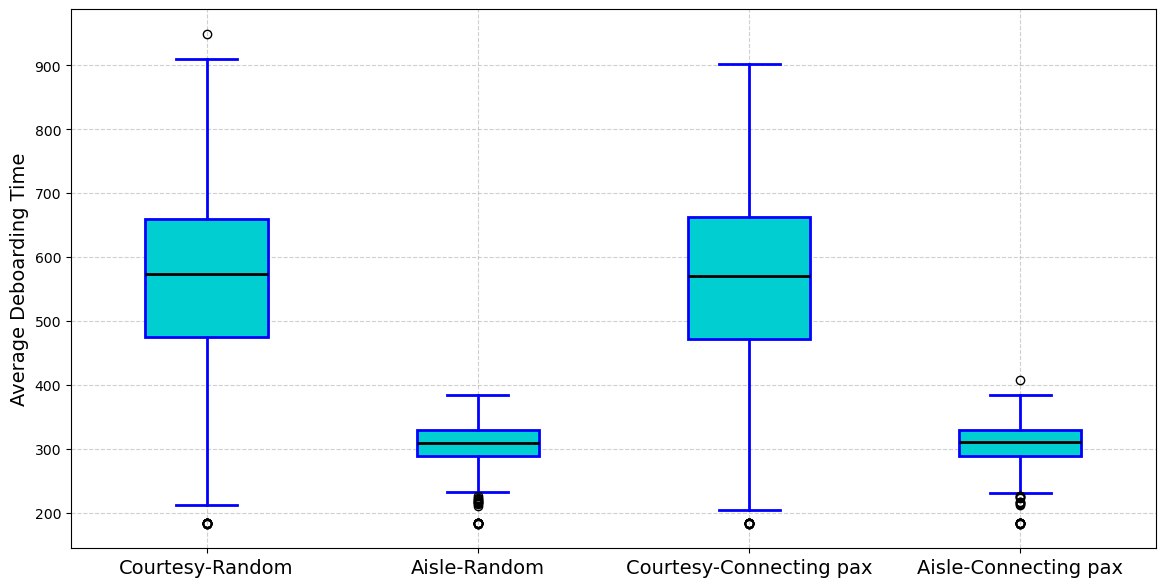
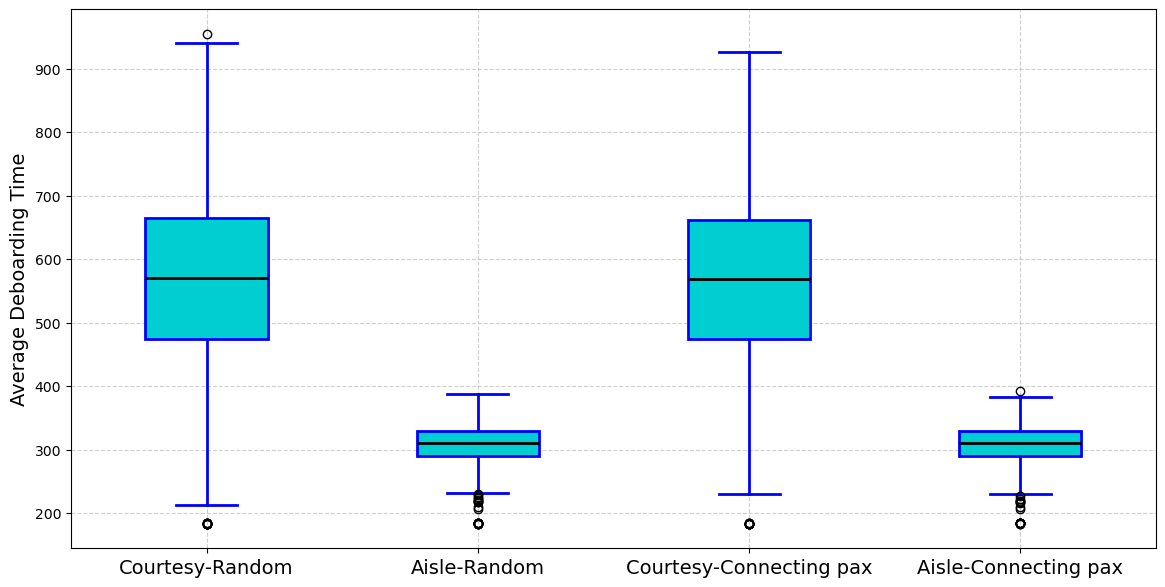
add gate closure time and regenerate figures

diff --git a/plane_deboarding.py b/plane_deboarding.py
@@ -11,7 +11,7 @@ import flight_schedule
 import prereserved_seats
 from config_deboarding import *
 
-DAY_LABEL = "max_flight_day"
+DAY_LABEL = "max_delay_day"
 
 
 # DAY_LABEL = "max_flight_day"
@@ -86,8 +86,8 @@ class Simulation:
 
     def prepare_simulation(self, nb_rows, nb_pax_carried, crop_df):
         """
-        Prepares the 10_simulations_40_pct_prereserved_3h_connecting_time by setting up the aircraft and passengers. Do it stochastically, each time this method is launched
-        a new 10_simulations_40_pct_prereserved_3h_connecting_time instance is generated.
+        Prepares the 10_simulations_40_pct_prereserved_3h_connecting_time_without_gate_closure_time by setting up the aircraft and passengers. Do it stochastically, each time this method is launched
+        a new 10_simulations_40_pct_prereserved_3h_connecting_time_without_gate_closure_time instance is generated.
 
         Parameters:
         nb_rows (int): Number of rows in the aircraft.
@@ -103,7 +103,7 @@ class Simulation:
         6. Sets the probability matrix for pre-reserved seats.
         7. Allocates seats to passengers.
         8. Creates passenger objects.
-        9. Sorts passengers for 10_simulations_40_pct_prereserved_3h_connecting_time.
+        9. Sorts passengers for 10_simulations_40_pct_prereserved_3h_connecting_time_without_gate_closure_time.
         """
         self.set_custom_aircraft(n_rows=nb_rows, n_seats_left=NB_SEAT_LEFT, n_seats_right=NB_SEAT_RIGHT)
         self.set_number_passengers(nb_pax_carried)
@@ -148,7 +148,7 @@ class Simulation:
             connecting_pax_list = np.repeat(buffer_time_list, nb_pax_list)
             nb_connecting_pax = len(connecting_pax_list)
             remaining_pax = nb_pax_carried - len(connecting_pax_list)
-            print(remaining_pax, nb_pax_carried, len(connecting_pax_list))
+            # print(remaining_pax, nb_pax_carried, len(connecting_pax_list))
             connecting_pax_list = np.concatenate((connecting_pax_list, np.full(remaining_pax, np.inf)))
             list_connecting_pax_lists.append(connecting_pax_list)
 
@@ -298,7 +298,7 @@ class Simulation:
 
             else:
                 raise ValueError("Unknown seat allocation strategy")
-            print(self.deboarding_strategy)
+            # print(self.deboarding_strategy)
 
             other_passengers_scheduled_deboarding_time = [p.scheduled_slack_time for p in non_pre_reserved_passengers]
             other_passengers_actual_deboarding_time = [p.actual_slack_time for p in non_pre_reserved_passengers]
@@ -330,8 +330,8 @@ class Simulation:
         # self.randomize_initialisation()
         for seat_allocation_strategy in seat_allocation_strategy_list:
             for deboarding_strategy in deboarding_strategy_list:
-                print(
-                    f"******* run 10_simulations_40_pct_prereserved_3h_connecting_time with {seat_allocation_strategy.value} with {deboarding_strategy.value} ....")
+                # print(
+                #     f"******* run 10_simulations_40_pct_prereserved_3h_connecting_time_without_gate_closure_time with {seat_allocation_strategy.value} with {deboarding_strategy.value} ....")
                 self.set_seat_allocation_strategy(seat_allocation_strategy)
                 self.set_deboarding_strategy(deboarding_strategy)
                 self.assign_passenger_connecting_times()
@@ -346,7 +346,7 @@ class Simulation:
 
         return results_missed_pax, results_deboarding_time
 
-    # Run a single 10_simulations_40_pct_prereserved_3h_connecting_time
+    # Run a single 10_simulations_40_pct_prereserved_3h_connecting_time_without_gate_closure_time
     def run(self):
         self.reset()
         deboarding_completed = False
@@ -523,10 +523,10 @@ class Simulation:
         for i, passenger in enumerate(self.passengers):
             if i == 0: continue
 
-            if passenger.deboarding_time < 0:
+            if passenger.deboarding_time <0:
                 logging.warning(f"Error when computing deboarding time of passenger {i}")
             else:
-                if (passenger.deboarding_time > passenger.actual_slack_time):
+                if (passenger.deboarding_time > passenger.actual_slack_time-GATE_CLOSE_TIME):
                     nb_missed_pax += 1
         return nb_missed_pax
 
@@ -538,7 +538,7 @@ def prepare_data_for_simulation(df_arrival_flight, flight_id):
     stochastic_load_factor = np.random.uniform(MIN_LOAD_FACTOR, MAX_LOAD_FACTOR)
     nb_rows = int(np.ceil(nb_pax_carried / (6 * stochastic_load_factor)))
 
-    print("nb_rows:", nb_rows, "nb_passengers_carried", nb_pax_carried)
+    # print("nb_rows:", nb_rows, "nb_passengers_carried", nb_pax_carried)
 
     df_connections = pd.read_csv(
         f"data/{DAY_LABEL}/connecting_passengers_3h_max_connecting_time.csv")  # todo: change in function of day
@@ -552,7 +552,7 @@ def save_results(missed_pax_per_strategy, deboarding_times_per_strategy, filenam
         columns=['Seat Allocation', 'Deboarding Strategy', "Total Missed Pax", "List Missed Pax",
                  'Average Deboarding Time', "List Deboarding Time"])
     cpt = 0
-    print(missed_pax_per_strategy, deboarding_times_per_strategy)
+    # print(missed_pax_per_strategy, deboarding_times_per_strategy)
     for (seat_allocation, deboarding_strategy), missed_pax in missed_pax_per_strategy.items():
         deboarding_times = deboarding_times_per_strategy[(seat_allocation, deboarding_strategy)]
         df.loc[cpt] = [seat_allocation, deboarding_strategy, np.sum(missed_pax), missed_pax,
@@ -571,9 +571,8 @@ if __name__ == "__main__":
     list_seat_allocation_strategy = [SeatAllocation.RANDOM, SeatAllocation.CONNECTING_PRIORITY]
     deboarding_strategy_list = [DeboardingStrategy.COURTESY_RULE, DeboardingStrategy.AISLE_PRIORITY_RULE]
     simulation = Simulation(quiet_mode=True, dummy_rows=2)
-    nb_flights = len(flight_ids)
+    nb_flights =len(flight_ids)
     for i in range(NB_SIMULATION):
-
         results_missing_pax = {(seat_allocation.value, deboarding_strategy.value): [] for seat_allocation in
                                list_seat_allocation_strategy for
                                deboarding_strategy in deboarding_strategy_list}
@@ -581,7 +580,7 @@ if __name__ == "__main__":
                                     list_seat_allocation_strategy for
                                     deboarding_strategy in deboarding_strategy_list}
 
-        print(f"Simulation {i + 1}/{NB_SIMULATION}")
+        print(f"**************Simulation {i + 1}/{NB_SIMULATION}*****************")
         for flight_id in flight_ids[:nb_flights]:
             nb_rows, nb_pax_carried, crop_df = prepare_data_for_simulation(df_arrival_flight, flight_id)
             missed_pax_per_allocationn, deboarding_time_per_allocation = simulation.run_simulation(nb_rows,

diff --git a/simulation_airport_deboarding.py b/simulation_airport_deboarding.py
@@ -71,15 +71,15 @@ if __name__ == "__main__":
     # # seat_allocation = SeatAllocation.RANDOM
     # # seat_allocation = SeatAllocation.CONNECTING_PRIORITY
     # for seat_allocation in [SeatAllocation.RANDOM, SeatAllocation.CONNECTING_PRIORITY]:
-    #     10_simulations_40_pct_prereserved_3h_connecting_time = Simulation(quiet_mode=True, dummy_rows=2)
+    #     10_simulations_40_pct_prereserved_3h_connecting_time_without_gate_closure_time = Simulation(quiet_mode=True, dummy_rows=2)
     #
-    #     10_simulations_40_pct_prereserved_3h_connecting_time.set_custom_aircraft(n_rows=30, n_seats_left=3, n_seats_right=3)
-    #     10_simulations_40_pct_prereserved_3h_connecting_time.set_passengers_proportion(0.9)
+    #     10_simulations_40_pct_prereserved_3h_connecting_time_without_gate_closure_time.set_custom_aircraft(n_rows=30, n_seats_left=3, n_seats_right=3)
+    #     10_simulations_40_pct_prereserved_3h_connecting_time_without_gate_closure_time.set_passengers_proportion(0.9)
     #
-    #     10_simulations_40_pct_prereserved_3h_connecting_time.set_passengers_proportion(passengers_proportion)
-    #     10_simulations_40_pct_prereserved_3h_connecting_time.set_seat_allocation(seat_allocation)
-    #     10_simulations_40_pct_prereserved_3h_connecting_time.run_multiple(nb_simu)
-    #     10_simulations_40_pct_prereserved_3h_connecting_time.evaluate_missing_pax()
+    #     10_simulations_40_pct_prereserved_3h_connecting_time_without_gate_closure_time.set_passengers_proportion(passengers_proportion)
+    #     10_simulations_40_pct_prereserved_3h_connecting_time_without_gate_closure_time.set_seat_allocation(seat_allocation)
+    #     10_simulations_40_pct_prereserved_3h_connecting_time_without_gate_closure_time.run_multiple(nb_simu)
+    #     10_simulations_40_pct_prereserved_3h_connecting_time_without_gate_closure_time.evaluate_missing_pax()
     # end_time = time.time()
     # print(f"Total simulation_time: {round(end_time-start_time,3)}s")
     df_flight = pd.read_csv(DATA_FOLDER + FLIGHT_FILENAME)

diff --git a/main_deboarding.py b/main_deboarding.py
@@ -27,7 +27,7 @@ def measure_deboarding_time(simulation, n=10):
             simulation.set_seat_allocation_strategy(seat_allocation)
             simulation.run_simulation(n)
 
-            # print(seat_allocation, passengers_proportion, np.mean(10_simulations_40_pct_prereserved_3h_connecting_time.deboarding_time))
+            # print(seat_allocation, passengers_proportion, np.mean(10_simulations_40_pct_prereserved_3h_connecting_time_without_gate_closure_time.deboarding_time))
 
             file_name = f'{seat_allocation.name.lower()}_{DISEMBARKING_RULE_NAME}_{int(100*passengers_proportion)}pct'
             full_path = os.path.join(OUTPUT_DIR,
@@ -45,7 +45,7 @@ def save_deboarding_orders(simulation):
         simulation.reset()
 
         # print(seat_allocation)
-        # 10_simulations_40_pct_prereserved_3h_connecting_time.print_deboarding_order()
+        # 10_simulations_40_pct_prereserved_3h_connecting_time_without_gate_closure_time.print_deboarding_order()
 
         full_path = os.path.join(OUTPUT_DIR,
                                  f'{seat_allocation.name.lower()}_{DISEMBARKING_RULE_NAME}_{NB_ROWS}_{simulation.n_seats_left}_deboarding_order.txt')
@@ -68,7 +68,7 @@ def main():
 
     save_deboarding_orders(simulation)
     save_history(simulation, n=1)
-    # measure_deboarding_time(10_simulations_40_pct_prereserved_3h_connecting_time, n=1)
+    # measure_deboarding_time(10_simulations_40_pct_prereserved_3h_connecting_time_without_gate_closure_time, n=1)
 
 
 if __name__ == "__main__":

diff --git a/plot_results.py b/plot_results.py
@@ -2,9 +2,10 @@ import os
 
 import matplotlib.pyplot as plt
 import pandas as pd
+from config_deboarding import GATE_CLOSE_TIME
 
-# DAY_LABEL = "max_delay_day"
-DAY_LABEL = "max_flight_day"
+DAY_LABEL = "max_delay_day"
+# DAY_LABEL = "max_flight_day"
 
 RESULT_FOLDER = f"results/{DAY_LABEL}/10_simulations_20_pct_prereserved_3h_connecting_time/"
 
@@ -48,7 +49,7 @@ def display_missed_pax_strategies(savefig=False):
     ax.grid(True, linestyle='--', alpha=0.6)
 
     if savefig:
-        plt.savefig(f"medias/boxplot/{DAY_LABEL}_missed_pax_.png", bbox_inches='tight')
+        plt.savefig(f"medias/boxplot/{DAY_LABEL}_missed_pax_{int(GATE_CLOSE_TIME/60)}min_gate_closure.png", bbox_inches='tight')
     else:
         plt.show()
 
@@ -83,7 +84,7 @@ def display_boxplot_deboarding_time(savefig=False):
     ax.grid(True, linestyle='--', alpha=0.6)
 
     if savefig:
-        plt.savefig(f"medias/boxplot/{DAY_LABEL}_deboarding_time.png", bbox_inches='tight')
+        plt.savefig(f"medias/boxplot/{DAY_LABEL}_deboarding_time_{int(GATE_CLOSE_TIME/60)}min_gate_closure.png", bbox_inches='tight')
     else:
         plt.show()
 
@@ -128,7 +129,7 @@ def display_deboarding_time_bar(savefig=False):
 
     # Save or display the plot
     if savefig:
-        plt.savefig(f"medias/barplot/{DAY_LABEL}_deboarding_time.png", bbox_inches='tight')
+        plt.savefig(f"medias/barplot/{DAY_LABEL}_deboarding_time_{int(GATE_CLOSE_TIME/60)}min_gate_closure.png", bbox_inches='tight')
     else:
         plt.show()
 

diff --git a/config_deboarding.py b/config_deboarding.py
@@ -1,5 +1,5 @@
 '''
-Configuration file including parameters used to tune the 10_simulations_40_pct_prereserved_3h_connecting_time
+Configuration file including parameters used to tune the 10_simulations_40_pct_prereserved_3h_connecting_time_without_gate_closure_time
 '''
 
 import numpy as np
@@ -43,3 +43,6 @@ NB_SIMULATION = 10
 #     DISEMBARKING_RULE_NAME = "courtesy"
 # else:
 #     DISEMBARKING_RULE_NAME = "aisle_priority"
+
+
+GATE_CLOSE_TIME = 20 * 60  # in seconds
